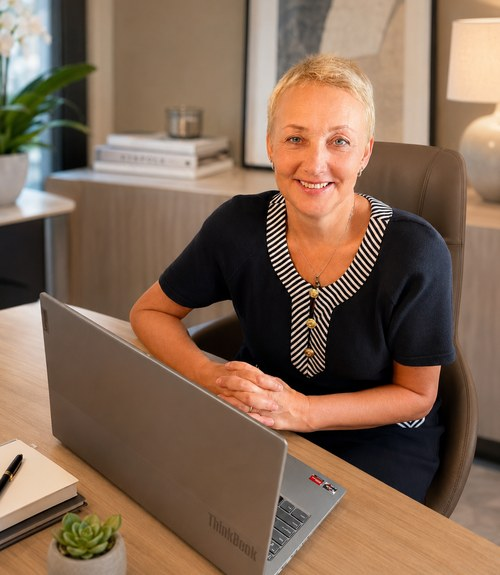
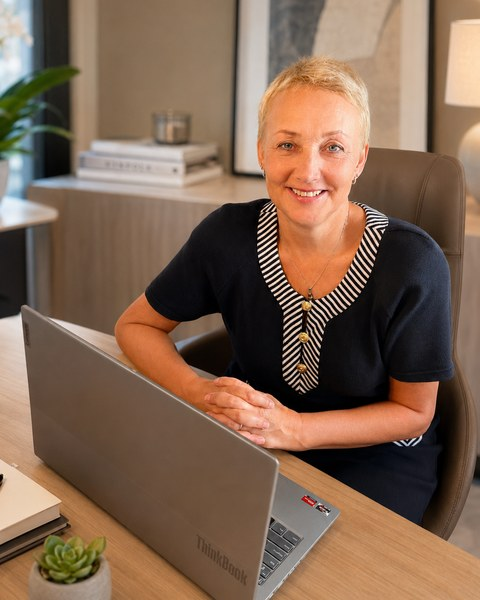
Fix About page photo sizing — lock aspect ratio, cap render size
The previous crop rendered far too large/zoomed in the narrow photo
column (no explicit sizing, so it scaled off raw pixel dimensions).
Recropped to an exact 4:5 ratio that keeps her hands and the laptop
in frame instead of cutting off at the chest, and added a
.profile-photo CSS class (fixed aspect-ratio, object-fit: cover,
max-width: 420px) so the photo always renders at a predictable,
contained size regardless of column width or whatever photo gets
swapped in later.

Claude-Session: https://claude.ai/code/session_01M3AVWqHkDyogduK1gmVbbh

diff --git a/css/style.css b/css/style.css
@@ -381,6 +381,17 @@ table.rates tr:last-child td { border-bottom: none; }
 }
 @media (max-width: 860px) { .split { grid-template-columns: 1fr; } }
 
+.profile-photo {
+  width: 100%;
+  max-width: 420px;
+  aspect-ratio: 4 / 5;
+  object-fit: cover;
+  object-position: center top;
+  border-radius: var(--radius);
+  box-shadow: var(--shadow-lg);
+}
+@media (max-width: 860px) { .profile-photo { max-width: 340px; margin: 0 auto; } }
+
 /* Contact info list */
 .contact-list { list-style: none; padding: 0; margin: 0; display: grid; gap: 16px; }
 .contact-list li { display: flex; gap: 14px; align-items: flex-start; }

diff --git a/ru/o-nas.html b/ru/o-nas.html
@@ -57,7 +57,7 @@
         <p>Gestora Administrativa, член коллегии № 02449 Ilustre Colegio Oficial de Gestores Administrativos de Valencia.</p>
       </div>
       <div>
-        <img src="../img/founder.jpg" alt="Анжелика Ведь, Gestora Administrativa AAV Gestoría" style="border-radius:var(--radius); box-shadow:var(--shadow-lg);" width="900" height="1036">
+        <img class="profile-photo" src="../img/founder.jpg" alt="Анжелика Ведь, Gestora Administrativa AAV Gestoría" width="800" height="1000">
       </div>
     </div>
   </section>

diff --git a/sobre-mi.html b/sobre-mi.html
@@ -57,7 +57,7 @@
         <p>Gestora Administrativa colegiada n.º 02449 en el Ilustre Colegio Oficial de Gestores Administrativos de Valencia.</p>
       </div>
       <div>
-        <img src="img/founder.jpg" alt="Anzhelika Ved, Gestora Administrativa de AAV Gestoría" style="border-radius:var(--radius); box-shadow:var(--shadow-lg);" width="900" height="1036">
+        <img class="profile-photo" src="img/founder.jpg" alt="Anzhelika Ved, Gestora Administrativa de AAV Gestoría" width="800" height="1000">
       </div>
     </div>
   </section>

diff --git a/templates/about.html b/templates/about.html
@@ -16,7 +16,7 @@
         <p>{{ page.colegiacion.p }}</p>
       </div>
       <div>
-        <img src="{{ asset('img/founder.jpg') }}" alt="{{ page.photo_alt }}" style="border-radius:var(--radius); box-shadow:var(--shadow-lg);" width="900" height="1036">
+        <img class="profile-photo" src="{{ asset('img/founder.jpg') }}" alt="{{ page.photo_alt }}" width="800" height="1000">
       </div>
     </div>
   </section>
